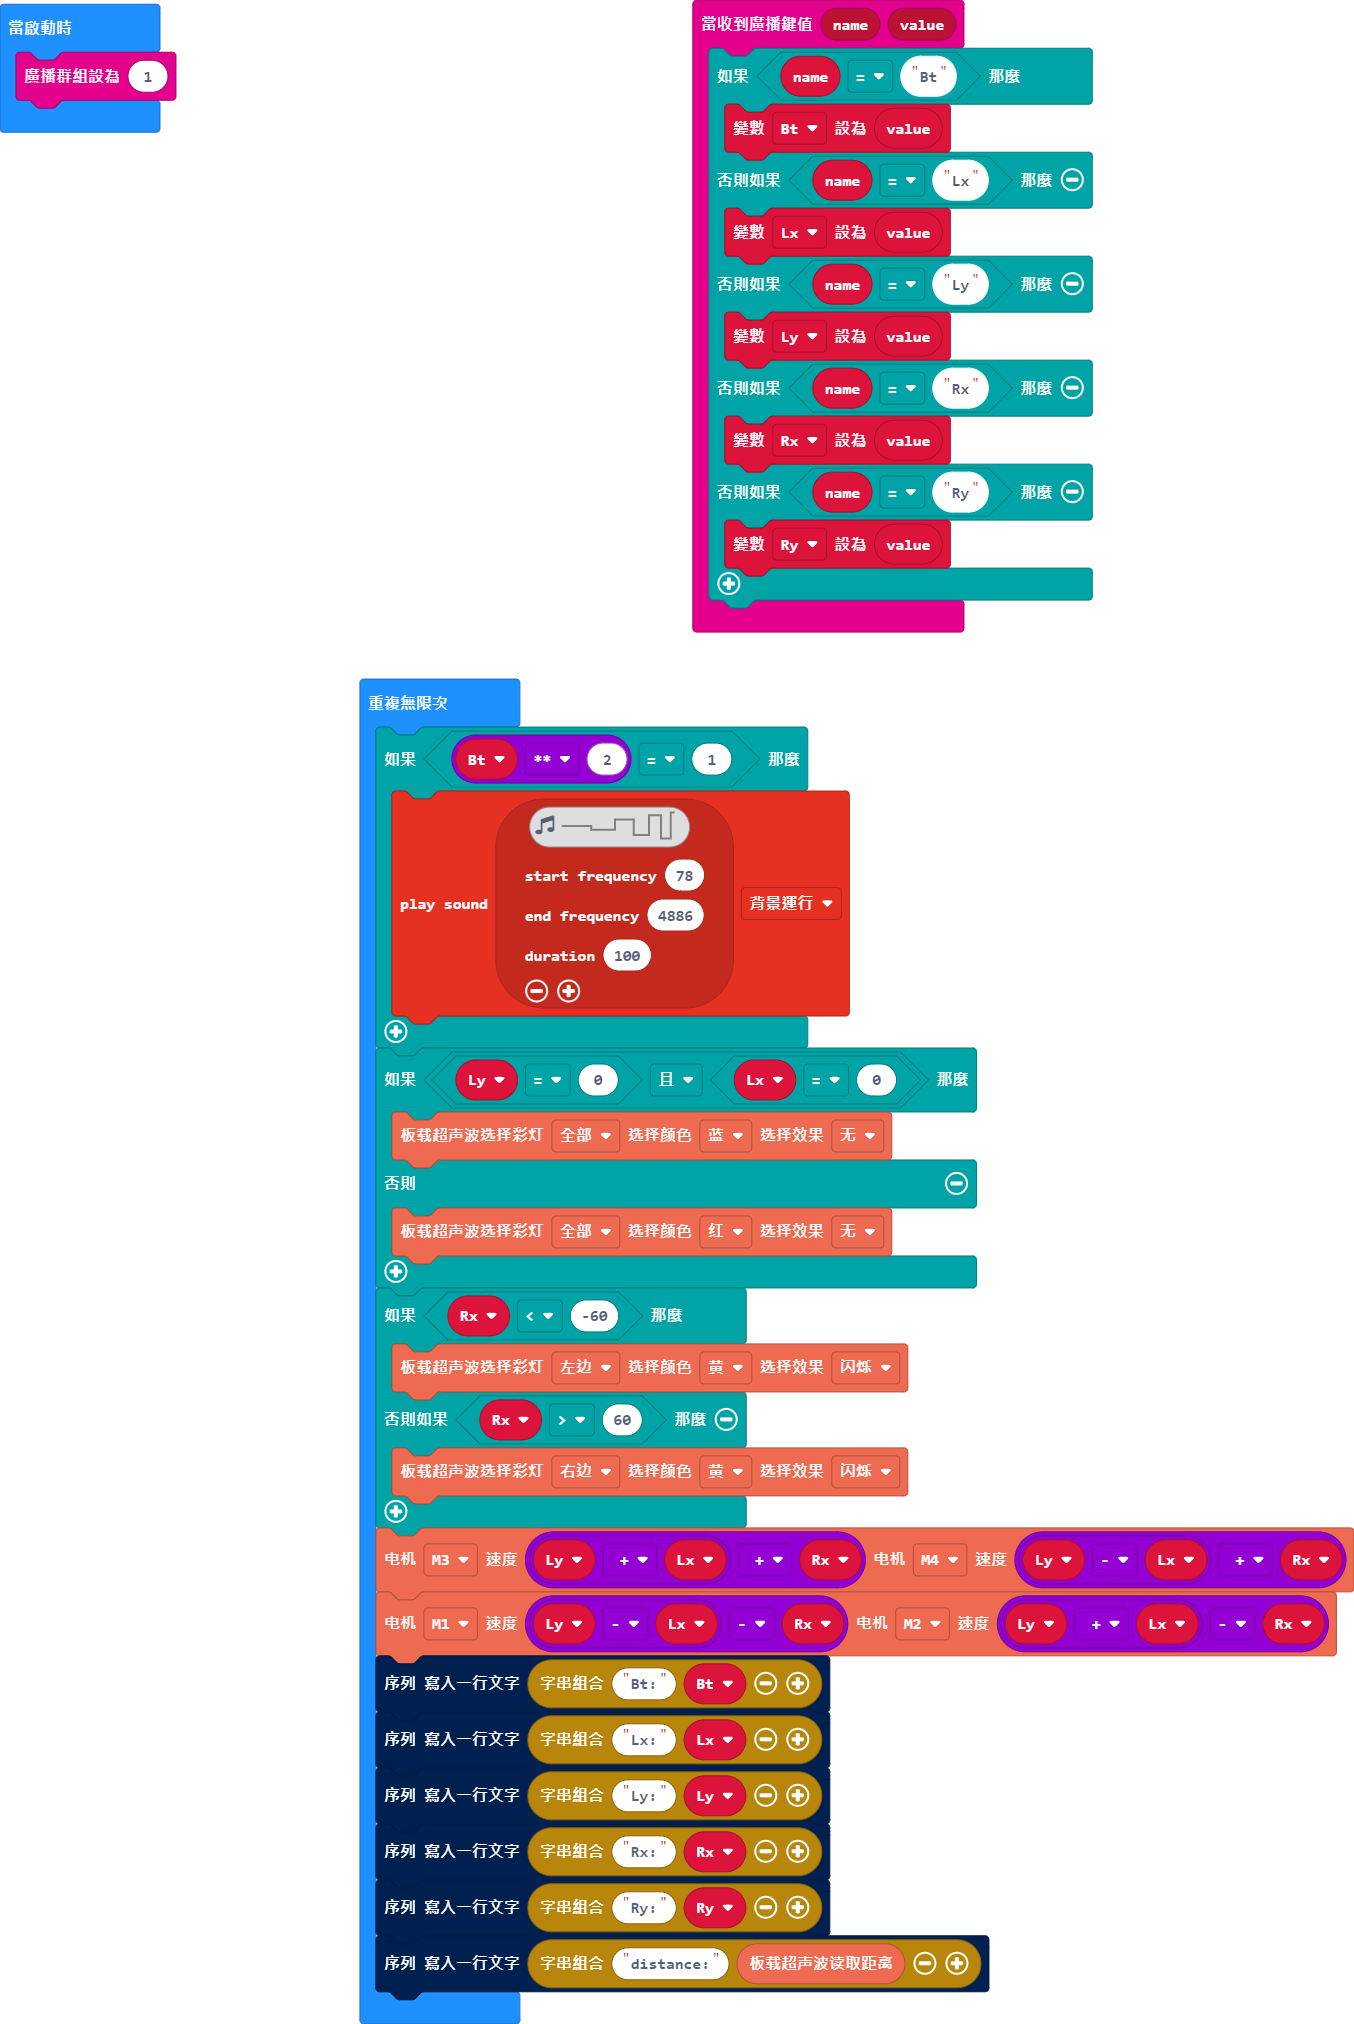
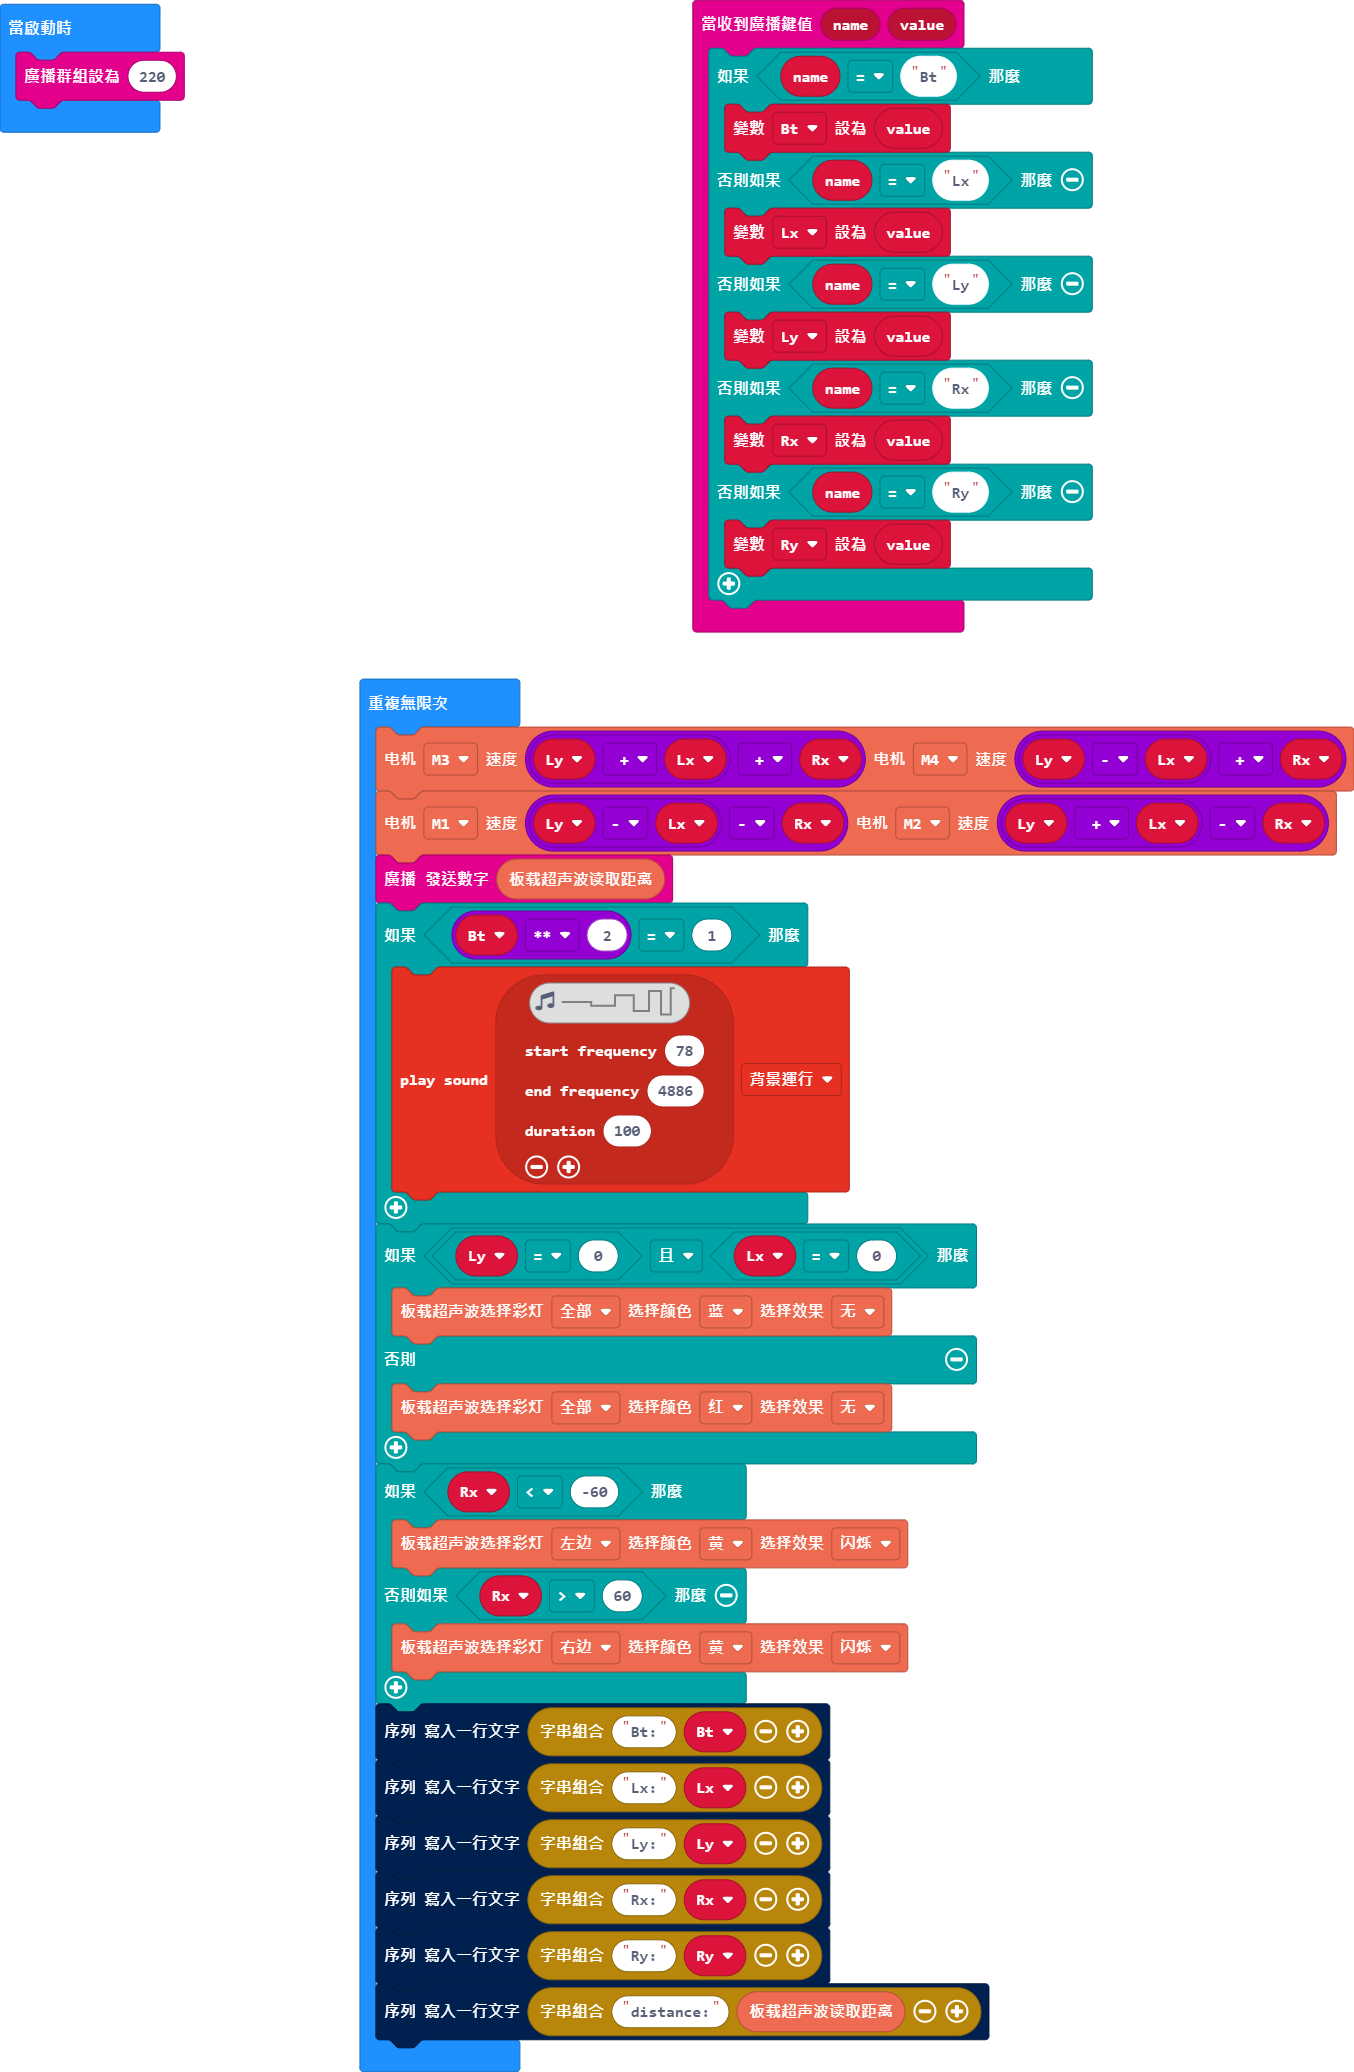
更新 main.blocks, main.ts

Changed region(s): [[0.2482, 0.3113, 1.0, 0.996], [0.4963, 0.0, 0.8065, 0.3113], [0.0, 0.0, 0.1551, 0.0623]]

diff --git a/main.ts b/main.ts
@@ -16,8 +16,11 @@ let Rx = 0
 let Ly = 0
 let Lx = 0
 let Bt = 0
-radio.setGroup(1)
+radio.setGroup(220)
 basic.forever(function () {
+    motorbit.MotorRunDual(motorbit.Motors.M3, Ly + Lx + Rx, motorbit.Motors.M4, Ly - Lx + Rx)
+    motorbit.MotorRunDual(motorbit.Motors.M1, Ly - Lx - Rx, motorbit.Motors.M2, Ly + Lx - Rx)
+    radio.sendNumber(motorbit.Ultrasonic_reading_distance())
     if (Bt ** 2 == 1) {
         music.playSoundEffect(music.createSoundEffect(
         WaveShape.Square,
@@ -40,8 +43,6 @@ basic.forever(function () {
     } else if (Rx > 60) {
         motorbit.motorbit_rus04(RgbUltrasonics.Right, RgbColors.Yellow, ColorEffect.Flash)
     }
-    motorbit.MotorRunDual(motorbit.Motors.M3, Ly + Lx + Rx, motorbit.Motors.M4, Ly - Lx + Rx)
-    motorbit.MotorRunDual(motorbit.Motors.M1, Ly - Lx - Rx, motorbit.Motors.M2, Ly + Lx - Rx)
     serial.writeLine("Bt:" + Bt)
     serial.writeLine("Lx:" + Lx)
     serial.writeLine("Ly:" + Ly)
